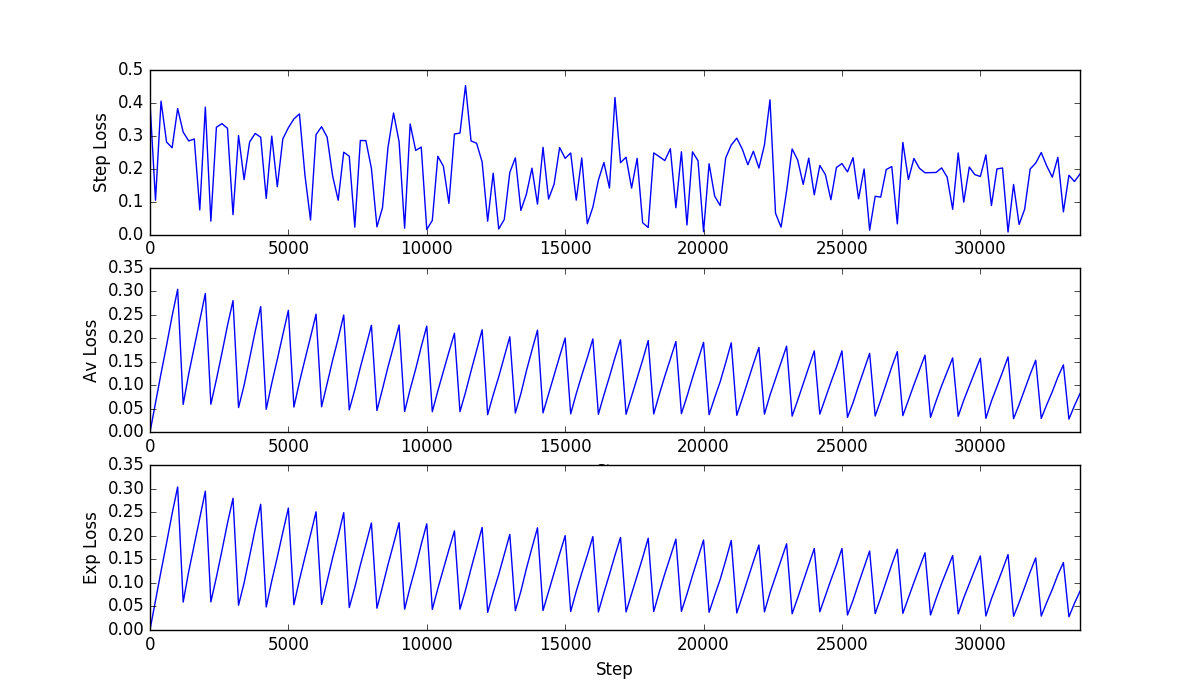
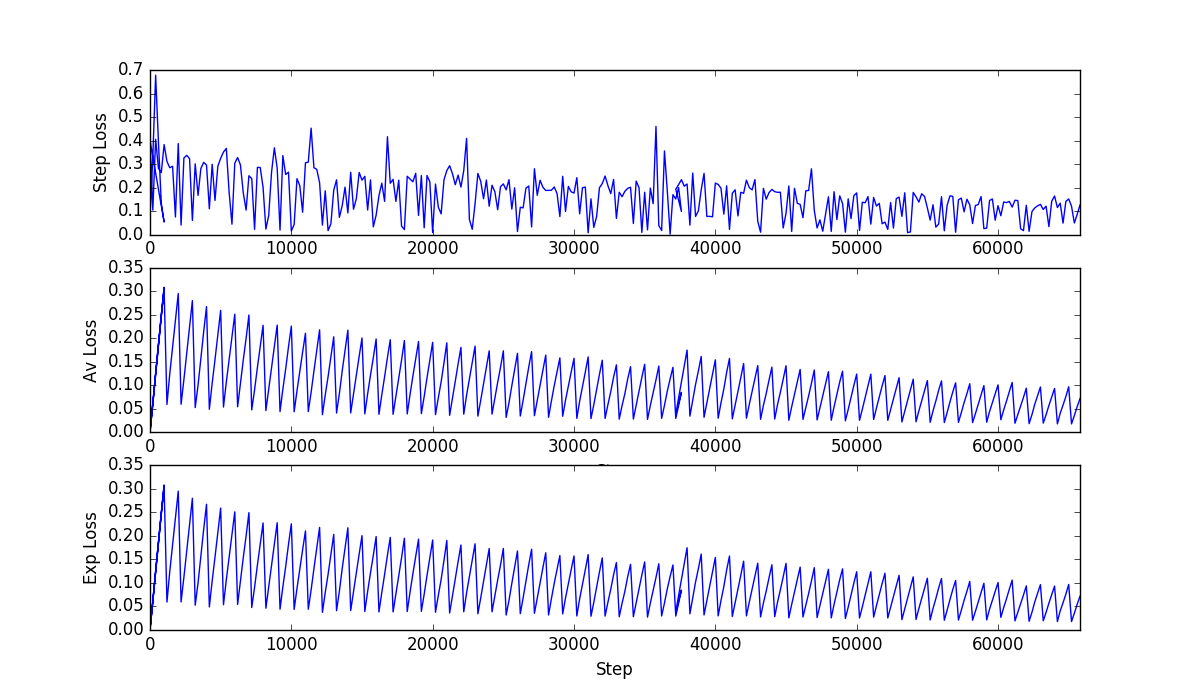
modifiled Readme

diff --git a/plotConll.py b/plotConll.py
@@ -10,7 +10,7 @@ print('Processing data ...')
 with open(log_path, 'r') as fhd:
     for line in fhd:
         line = line[24:].strip()
-        if line[:4].lower() == 'step':
+        if line[:5].lower() == 'step ':
             cols = line.split(', ')
             k = cols[0].find('/')
             step.append(int(cols[0][5:k]))

diff --git a/README.md b/README.md
@@ -1,0 +1,59 @@
+模型修改自 [Deep Text Corrector](https://github.com/atpaino/deep-text-corrector)
+
+### 模型要求
+
+纠正英文句子中的6种错误
+
+- 介词错误
+- 名词错误
+- 冠词错误
+- 动词错误
+- 谓语错误
+- 标点错误
+
+### 运行环境
+
+- Python 3.6
+- TensorFlow 1.10
+- NLTK 3.3
+- NumPy 1.13
+
+### 模型及参数
+
+主要思想是 sequence-to-sequence + attention mechanism，细节可参见 [Bahdanau et al., 2014](http://arxiv.org/abs/1409.0473)
+
+encoder 和 decoder 的 RNN 每层大小和层数: 512, 4
+
+RNN 单元：LSTM
+
+最大单词（token）数（词典大小）：2000
+
+因使用了一种处理OOV词（词典外的词）的策略，可以使用较小的词典，可参见 [Addressing the Rare Word Problem in NMT](https://arxiv.org/pdf/1410.8206v4.pdf) 
+
+### 数据集
+
+- [Cornel Movie-Dialogs Corpus](http://www.cs.cornell.edu/~cristian/Cornell_Movie-Dialogs_Corpus.html)
+  - 电影字幕语料，可认为是没有语法错误的语料，需要生成有错误的句子以得到训练集。
+
+- [NUCLE Release 3.2](https://www.comp.nus.edu.sg/~nlp/conll14st.html)
+  - 有错误标注，可直接用于训练。
+
+### 数据处理
+
+基本思想是对正确的句子加入随机“噪声”来得到训练数据，分别针对下面不同情况进行处理
+
+- 介词、冠词、谓语、标点：将其随机替换成其他相应的词或去掉
+- 动词：随机改变时态
+
+### 错误标记
+
+对原句子和纠正后的句子分别用NLTK标记各单词的词性，然后贪心地找出不同的（被纠正的）词，最后根据其词性确定错误的类型。
+
+### 参考文献
+
+- [Neural Machine Translation by Jointly Learning to Align and Translate](https://arxiv.org/abs/1409.0473)
+- [Sequence to Sequence Learning with Neural Networks](https://arxiv.org/abs/1409.3215)
+- [GRAMMATICAL ERROR CORRECTION](https://www.cse.iitb.ac.in/~krishnachaitanyagudi/btp_report.pdf)
+- [Neural Language Correction with Character-Based Attention](https://arxiv.org/pdf/1603.09727.pdf)
+- [Deep Context Model for Grammatical Error Correction](http://www.slate2017.org/papers/SLaTE_2017_paper_5.pdf)
+
